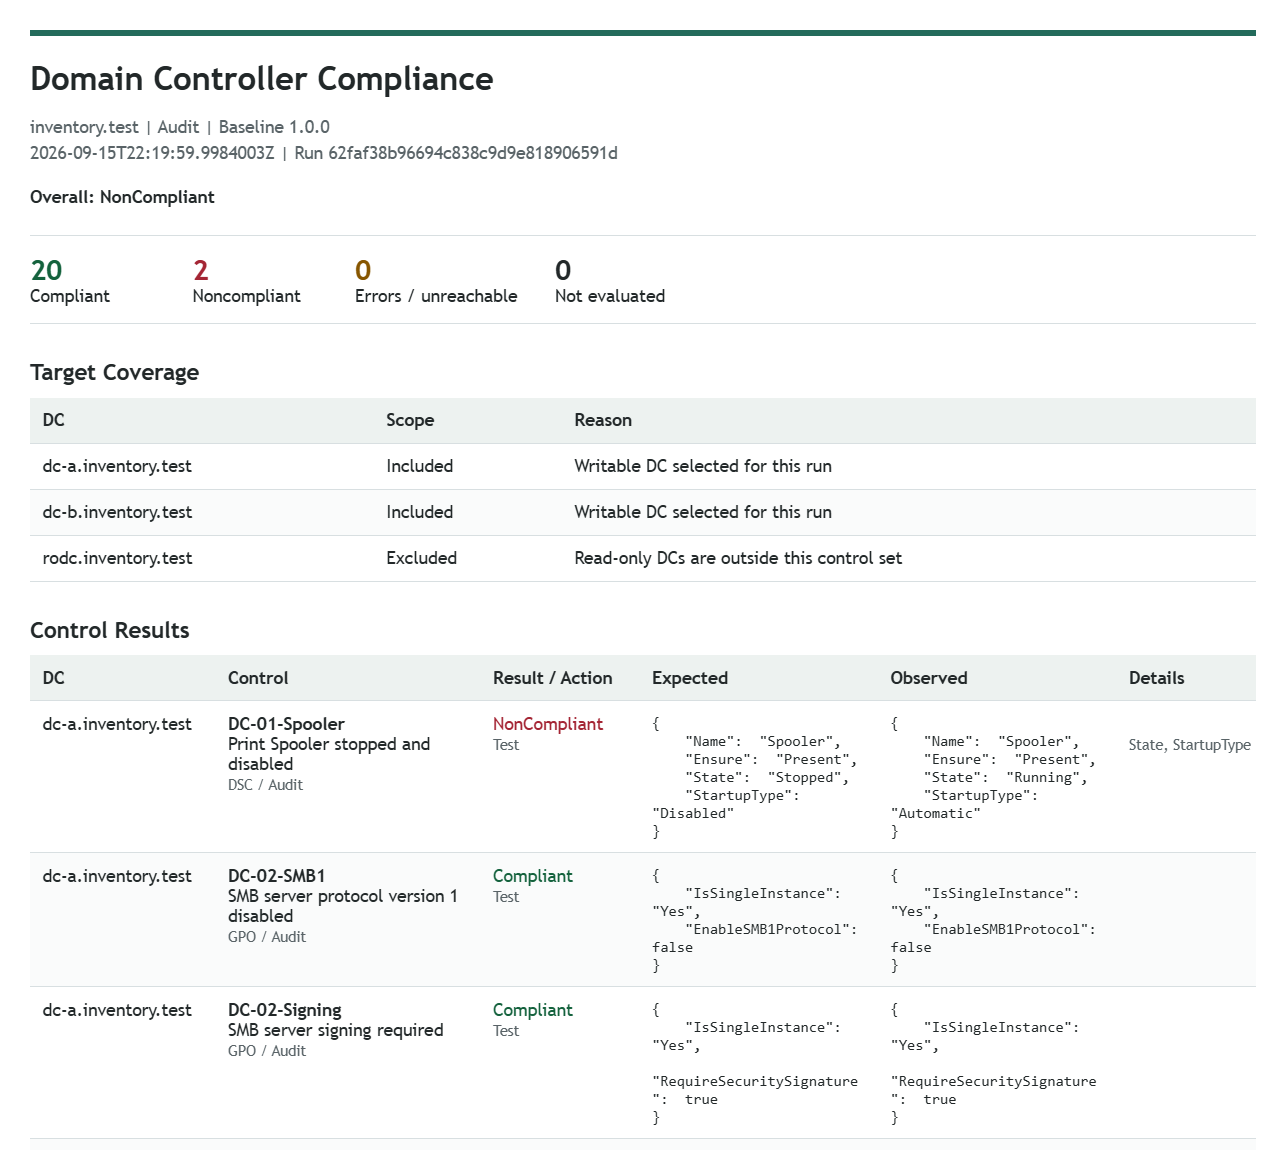
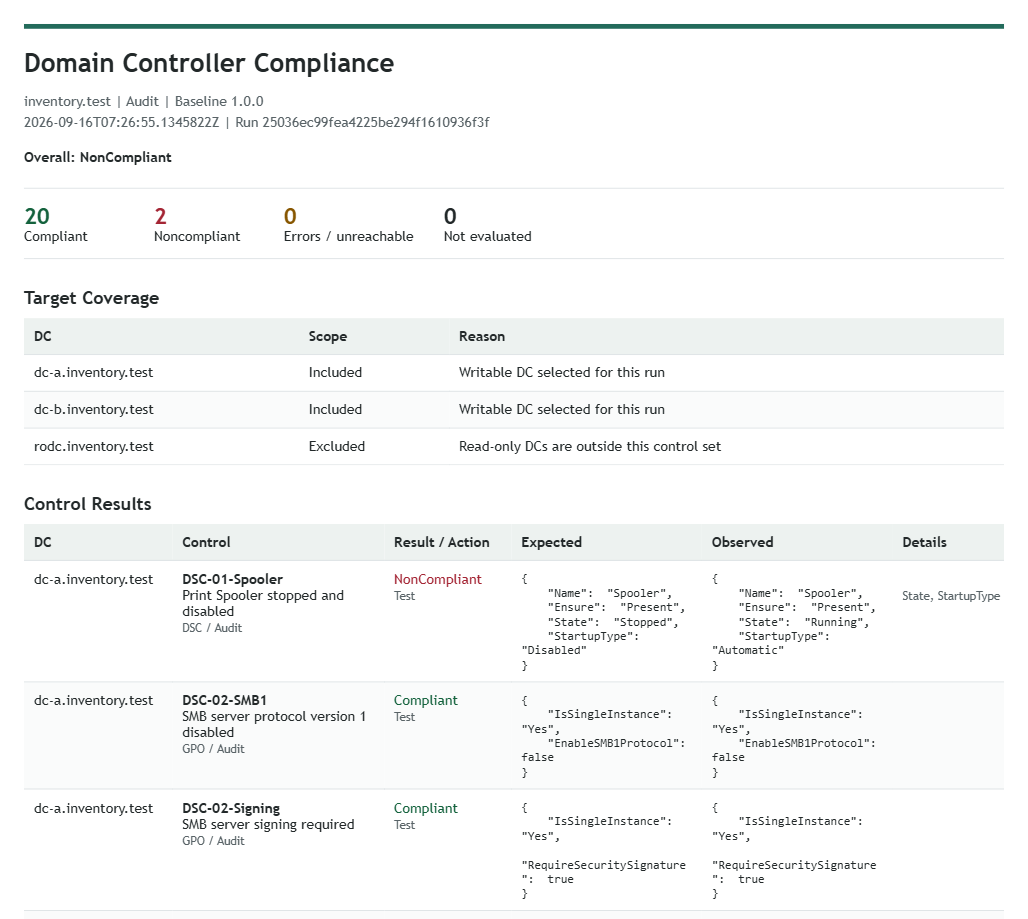
.

diff --git a/110 - Platform/Windows Server/Concepts/Desired State Configuration/Domain Controller Compliance with DSC v3.md b/110 - Platform/Windows Server/Concepts/Desired State Configuration/Domain Controller Compliance with DSC v3.md
@@ -117,11 +117,11 @@ These five **families** cover settings expected to be configured identically acr
 
 | ID | Control family | What we intend to check | Initial correction policy |
 | --- | --- | --- | --- |
-| DC-01 | Print Spooler | Service stopped and startup type disabled | Audit; optional DSC Set for DSC-owned settings. |
-| DC-02 | SMB | SMB server protocol version 1 disabled; server signing required | Audit only; correct the owning GPO or configuration tool |
-| DC-03 | Security auditing | Required advanced audit subcategories are effectively enabled | Audit only; correct the audit policy in its owning GPO |
-| DC-04 | Event logs | Required maximum sizes and retention behavior | Audit; optional DSC Set for DSC-owned settings. |
-| DC-05 | LDAP security | Explicit registry policy values for LDAP signing and channel binding | Audit only; compatibility assessment before a policy change |
+| DSC-01 | Print Spooler | Service stopped and startup type disabled | Audit; optional DSC Set for DSC-owned settings. |
+| DSC-02 | SMB | SMB server protocol version 1 disabled; server signing required | Audit only; correct the owning GPO or configuration tool |
+| DSC-03 | Security auditing | Required advanced audit subcategories are effectively enabled | Audit only; correct the audit policy in its owning GPO |
+| DSC-04 | Event logs | Required maximum sizes and retention behavior | Audit; optional DSC Set for DSC-owned settings. |
+| DSC-05 | LDAP security | Explicit registry policy values for LDAP signing and channel binding | Audit only; compatibility assessment before a policy change |
 
 Step 2 defines the exact values used by these checks. The LDAP rows deliberately test **explicit policy configuration**, not effective protocol enforcement inferred from OS defaults.
 
@@ -248,7 +248,7 @@ This is the Spooler entry from the parameters file:
 
 ```json
 {
-  "Id": "DC-01-Spooler",
+    "Id": "DSC-01-Spooler",
   "Name": "Print Spooler stopped and disabled",
   "Owner": "DSC",
   "Mode": "Audit",
@@ -270,17 +270,17 @@ The supplied values are:
 
 | Control ID | Expected state |
 | --- | --- |
-| `DC-01-Spooler` | Spooler present, stopped, and disabled |
-| `DC-02-SMB1` | SMB **server** `EnableSMB1Protocol = false` |
-| `DC-02-Signing` | SMB **server** `RequireSecuritySignature = true` |
-| `DC-03-Logon` | Logon audit: Success And Failure |
-| `DC-03-Accounts` | User Account Management audit: Success And Failure |
-| `DC-03-DirectoryChanges` | Directory Service Changes audit: Success |
-| `DC-04-Security` | Security log: 1 GiB, Circular |
-| `DC-04-System` | System log: 64 MiB, Circular |
-| `DC-04-Directory` | Directory Service log: 128 MiB, Circular |
-| `DC-05-Signing` | Explicit `LDAPServerIntegrity` DWORD value `2` |
-| `DC-05-ChannelBinding` | Explicit `LdapEnforceChannelBinding` DWORD value `2` |
+| `DSC-01-Spooler` | Spooler present, stopped, and disabled |
+| `DSC-02-SMB1` | SMB **server** `EnableSMB1Protocol = false` |
+| `DSC-02-Signing` | SMB **server** `RequireSecuritySignature = true` |
+| `DSC-03-Logon` | Logon audit: Success And Failure |
+| `DSC-03-Accounts` | User Account Management audit: Success And Failure |
+| `DSC-03-DirectoryChanges` | Directory Service Changes audit: Success |
+| `DSC-04-Security` | Security log: 1 GiB, Circular |
+| `DSC-04-System` | System log: 64 MiB, Circular |
+| `DSC-04-Directory` | Directory Service log: 128 MiB, Circular |
+| `DSC-05-Signing` | Explicit `LDAPServerIntegrity` DWORD value `2` |
+| `DSC-05-ChannelBinding` | Explicit `LdapEnforceChannelBinding` DWORD value `2` |
 
 The log sizes are example operational choices, not universal requirements. `Circular` overwrites the oldest events when the log fills; it does not guarantee a retention duration. `Retain` and `AutoBackup` have different behavior. The resource checks exact configuration values, not an abstract security score.
 
@@ -404,7 +404,7 @@ This alternative requires repository access and the NuGet provider on the DC. Th
 ```powershell
 $run = & 'C:\DSC\DomainControllersDCS\Invoke-DCCompliance.ps1' `
     -ComputerName 'MM-DC1.mathiasmotron.com' `
-    -ControlId 'DC-01-Spooler'
+    -ControlId 'DSC-01-Spooler'
 $auditExitCode = $LASTEXITCODE
 
 $run | Format-List
@@ -536,7 +536,7 @@ On MM-DSC1:
 ```powershell
 $settingsPath = 'C:\DSC\DomainControllersDCS\compliance.settings.json'
 $settings = Get-Content -LiteralPath $settingsPath -Raw -Encoding UTF8 | ConvertFrom-Json
-$spooler = $settings.Controls | Where-Object Id -eq 'DC-01-Spooler'
+$spooler = $settings.Controls | Where-Object Id -eq 'DSC-01-Spooler'
 if ($spooler.Owner -ne 'DSC') { throw 'This control is not declared DSC-owned.' }
 $spooler.Mode = 'Enforce'
 $settings.BaselineVersion = '1.0.1'
@@ -552,7 +552,7 @@ The parameters file is reread on every invocation. Changing `Mode` does not itse
 $preview = & 'C:\DSC\DomainControllersDCS\Invoke-DCCompliance.ps1' `
     -Operation Remediate `
     -ComputerName 'MM-DC1.mathiasmotron.com' `
-    -ControlId 'DC-01-Spooler' `
+    -ControlId 'DSC-01-Spooler' `
     -WhatIf
 
 $preview | Format-List
@@ -566,7 +566,7 @@ This is **our PowerShell runner's WhatIf**, not `dsc config set --what-if`. The 
 $remediation = & 'C:\DSC\DomainControllersDCS\Invoke-DCCompliance.ps1' `
     -Operation Remediate `
     -ComputerName 'MM-DC1.mathiasmotron.com' `
-    -ControlId 'DC-01-Spooler'
+    -ControlId 'DSC-01-Spooler'
 $remediationExitCode = $LASTEXITCODE
 
 $remediation | Format-List
